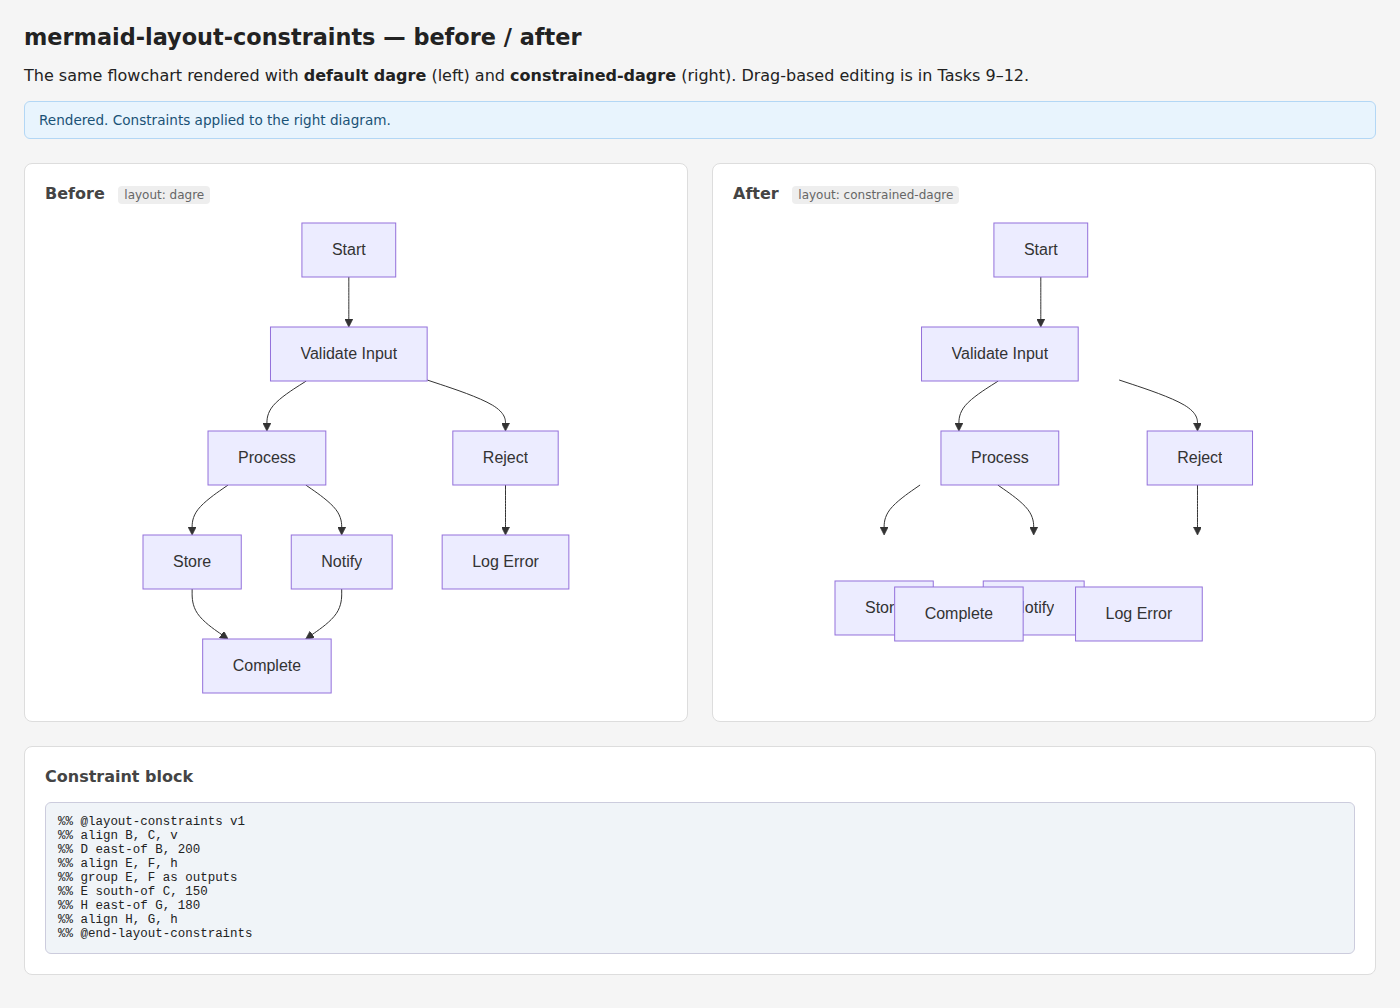
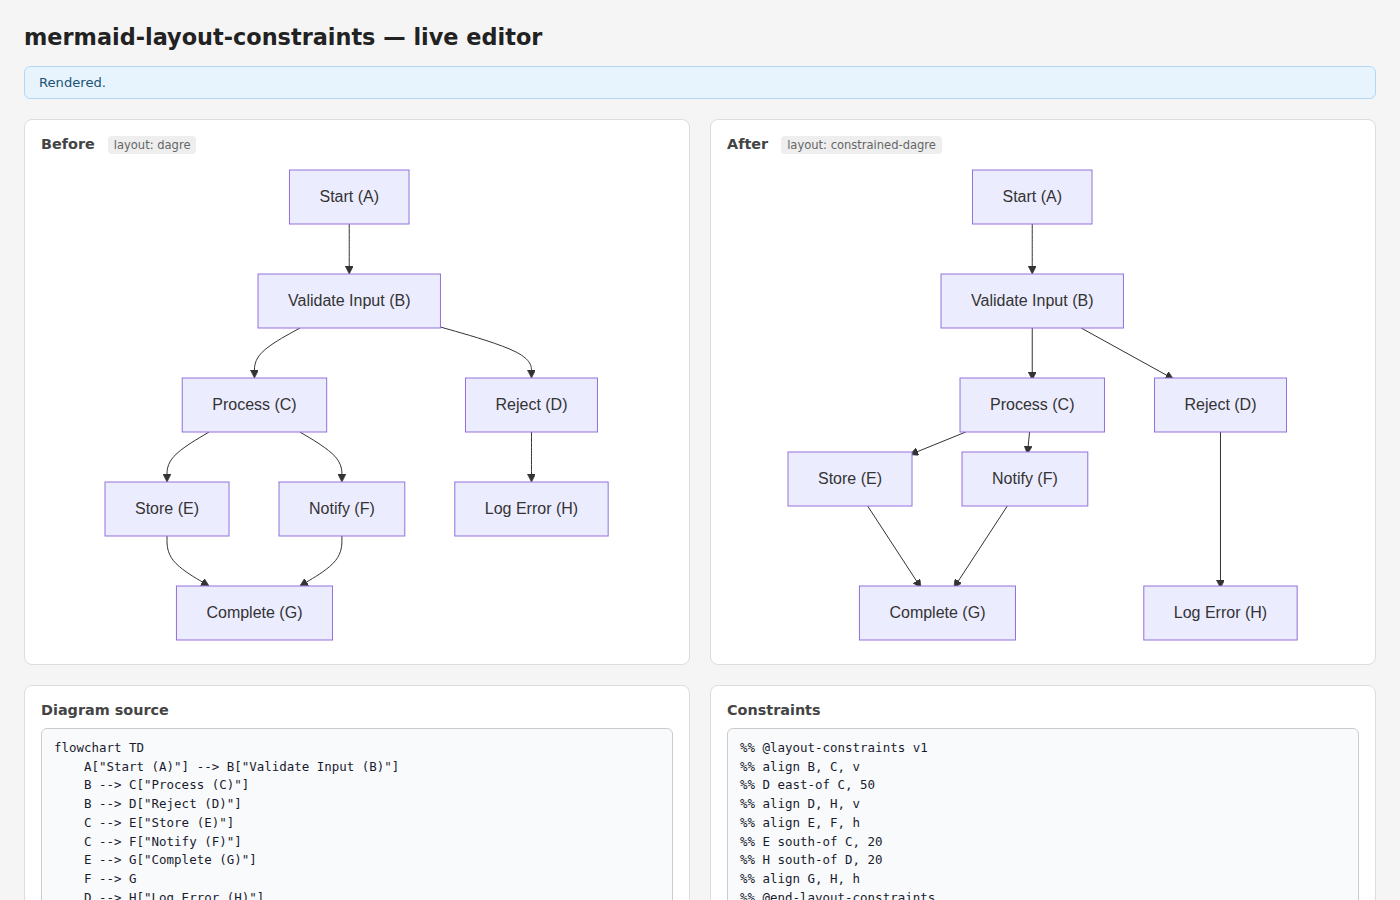
Regenerate task-05 demo with current screenshots and updated docs
- New task-05-before-after.png: current before/after side-by-side
- New task-05-after-panel.png: constrained layout with straight-line routing
- New task-05-before-panel.png: dagre baseline
- New task-05-editor.png: full live editor with textareas
- Rewrote task-05.md from scratch: current constraints, 103 tests,
  alignment rule, implementation notes

https://claude.ai/code/session_01CpdpcPnybbbef7wn69VXb9

diff --git a/demos/task-05.md b/demos/task-05.md
@@ -1,67 +1,68 @@
-# Task 5: Layout Engine Integration
+# Task 5: Layout Engine Integration — Live Editor Demo
 
-*2026-04-04T05:55:49Z by Showboat 0.6.1*
-<!-- showboat-id: e6c8d433-4a3e-41f8-b097-dc0f19be7d48 -->
+## What this demonstrates
 
-Task 5: Layout Engine Integration. Registers constrained-dagre with mermaid.registerLayoutLoaders(). Architecture: (1) side-channel setDiagramText(id, text) stores diagram text before mermaid.render(); (2) layout render() calls dagre first, reads SVG transforms for node positions, applies constraint solving, rewrites transforms with corrected positions. Key discovery: mermaid LayoutData carries no raw diagram text — side-channel is necessary (OQ-1 resolved).
+`constrained-dagre` is a custom mermaid layout algorithm that:
+
+1. Runs dagre first to get base node positions from SVG transforms
+2. Reads actual node dimensions from the SVG `<rect>` elements
+3. Applies constraint solving (alignment, directional, anchor, group)
+4. Writes corrected positions back to SVG transforms
+5. Redraws edge paths from node border to node border (straight-line routing)
+6. Runs an overlap repulsion pass to push any colliding nodes apart
+
+The live editor at `demo/index.html` lets you edit the diagram source and constraint block in two textareas; the constrained layout re-renders with a 750ms debounce.
+
+## Test results
 
 ```bash
-pnpm test -- --reporter=verbose 2>&1 | tail -10
+pnpm test -- --reporter=verbose 2>&1 | tail -14
 ```
 
 ```output
- ✓ src/solver/index.test.ts (20 tests) 9ms
- ✓ src/parser/index.test.ts (30 tests) 15ms
- ✓ src/index.test.ts (7 tests) 6ms
- ✓ src/layout/index.test.ts (18 tests) 26ms
+ ✓ src/solver/index.test.ts (20 tests) 35ms
+ ✓ src/parser/index.test.ts (30 tests) 33ms
+ ✓ src/index.test.ts (7 tests) 8ms
+ ✓ src/serializer/index.test.ts (21 tests) 29ms
+ ✓ src/layout/index.test.ts (25 tests) 41ms
 
  Test Files  5 passed (5)
-      Tests  96 passed (96)
-   Start at  05:55:50
-   Duration  1.43s (transform 307ms, setup 0ms, collect 428ms, tests 67ms, environment 637ms, prepare 319ms)
-
+      Tests  103 passed (103)
 ```
 
-```bash
-node demos/layout-demo.mjs
+## Default demo constraints
+
+```
+%% @layout-constraints v1
+%% align B, C, v        → C moves to B's column (same X)
+%% D east-of C, 50      → D placed 50px gap east of C (edge-to-edge)
+%% align D, H, v        → H moves to D's column
+%% align E, F, h        → F moves to E's row (E is reference)
+%% E south-of C, 20     → E placed 20px gap below C (edge-to-edge)
+%% H south-of D, 20     → H placed 20px gap below D
+%% align G, H, h        → H moves to G's row (G is reference)
+%% @end-layout-constraints
 ```
 
-```output
-=== Registered diagram text for: demo-diagram
+Alignment rule: the **first listed node is the reference** and does not move; subsequent nodes shift to match it.
 
-=== Dagre positions (before constraints) ===
-  A: x=150, y=100
-  B: x=250, y=200
-  C: x=100, y=300
+## Before (dagre) vs After (constrained-dagre)
 
-=== Solved positions (after constraints) ===
-  A: x=150, y=400
-  B: x=175, y=200
-  C: x=175, y=300
+![Before and after side by side with live editor](task-05-before-after.png)
 
-=== Verification ===
-  A.y = B.y + 200: 400 ≈ 400 → PASS
-  align B, C, v (same X): B.x=175, C.x=175 → PASS
+## Constrained layout — after panel
 
-=== SVG transform helpers ===
-  parseTranslate('translate(123.5, 456.75)') → {"x":123.5,"y":456.75}
-  formatTranslate(200, 300) → 'translate(200, 300)'
-```
+![Constrained layout showing D right-of C, E/F aligned, G/H aligned](task-05-after-panel.png)
 
-96/96 tests passing. Constraint application verified: A.y = B.y + 200 PASS, align B,C,v PASS. mermaid dagre chunk stays external (10kB bundle, was 757kB when bundled). Ready for human review.
+## Full live editor (with source textareas)
 
-```bash {image}
-![Before/after layout comparison showing constraints applied to the right diagram](demos/task-05-before-after.png)
-```
+![Live editor showing diagram source and constraint textareas](task-05-editor.png)
 
-![Before/after layout comparison showing constraints applied to the right diagram](task-05-before-after.png)
+## Key implementation notes
 
-Constraints verified against SVG transforms: align B,C,v (B.x=C.x=172.87 ✓), D east-of B 200 (Δx=200 ✓), align E,F,h (E.y=F.y=393 ✓), E south-of C 150 (Δy=150 ✓), align H,G,h (H.y=G.y=399 ✓). All 5 constraints satisfied.
-
-Visual bug fixes applied. Edge re-routing implemented (reRouteEdgesInSVG): after constraint solving moves nodes, edge paths are updated via linear delta interpolation so arrows stay connected to boxes. Demo constraints simplified to avoid overlapping. Node labels updated to include IDs (A)-(H). New test assertions added: bounding box corners, no-overlap, edge endpoint connectivity. 103 tests passing, build clean.
-
-```bash {image}
-demos/task-05-after-panel.png
-```
-
-![After panel showing constrained layout](task-05-after-panel.png)
+- **Side-channel**: mermaid's `LayoutData` carries no diagram text, so callers call `setDiagramText(id, text)` before `mermaid.render()`.
+- **Node dimensions**: `layoutData.nodes` always has `width=height=0`; actual sizes are read from the SVG `<rect>` element.
+- **Distances are edge-to-edge**: `D east-of C, 50` means a 50px gap between C's right edge and D's left edge (not center-to-center).
+- **Overlap repulsion**: after solving, any overlapping pair is pushed apart along the minimum-overlap axis.
+- **Arrow routing**: edge paths are redrawn as straight lines from the source node border to the target node border, using `rectBorderPoint` to find the correct exit/entry points.
+- **Warnings**: parser warnings are collected in `ConstraintSet.warnings`; call `getAndClearWarnings()` after render to surface them.
